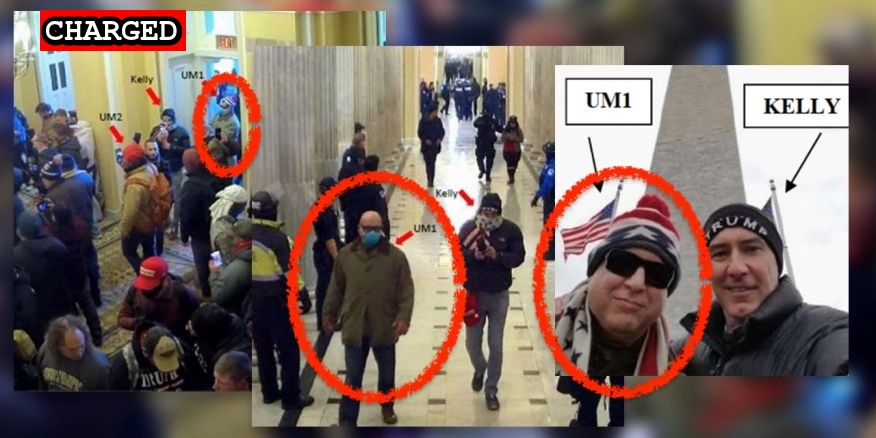
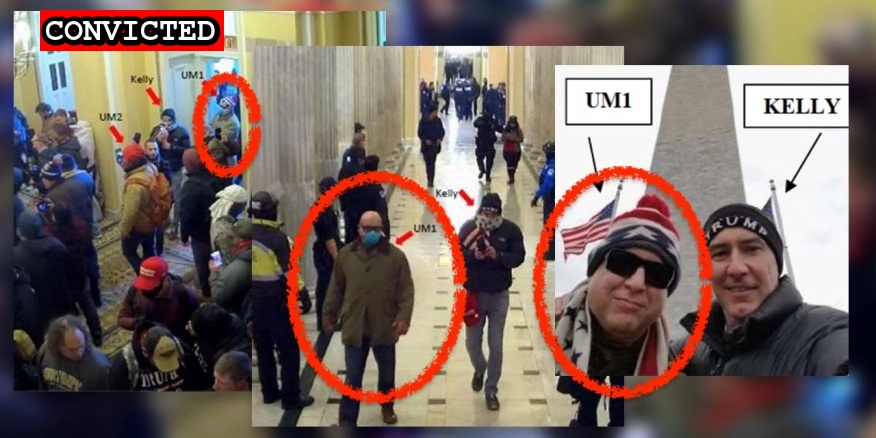
Guilty plea

Changed region(s): [[0.0616, 0.0, 0.2774, 0.1187]]

diff --git a/docs/_suspects/leonard-gruppo.md b/docs/_suspects/leonard-gruppo.md
@@ -3,13 +3,13 @@ name: Leonard Gruppo
 lastName: Gruppo
 aka:
 residence: Texas
-status: Charged
+status: Convicted
 date: 2021-06-01
 charged: 2021-06-01
 indicted:
-convicted: 
-sentenced: 
-dismissed: 
+convicted: 2021-08-18
+sentenced:
+dismissed:
 deceased:
 age:
 occupation: Physician's Assistant
@@ -29,7 +29,13 @@ author: seditiontrack
 layout: suspect
 published: true
 caseNumber: 1:21-cr-391
+charges:
+  - code: '18 USC § 5104(e)(2)(G)'
+    title: 'Parading, Demonstrating or Picketing in a Capitol Building'
+    url: 'https://www.law.cornell.edu/uscode/text/40/5104'
+    felony: false
 ---
+
 - [News Report](https://www.everythinglubbock.com/news/local-news/new-info-released-about-clovis-man-arrested-in-connection-to-capitol-breach/)
 - [Complaint](https://www.justice.gov/usao-dc/case-multi-defendant/file/1401791/download)
 - [Statement of Facts](https://www.justice.gov/usao-dc/case-multi-defendant/file/1401796/download)
